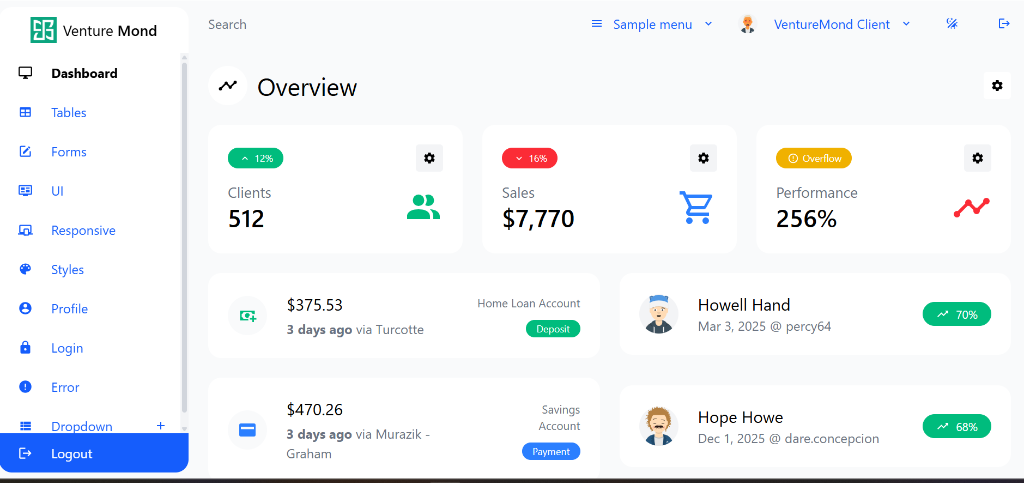
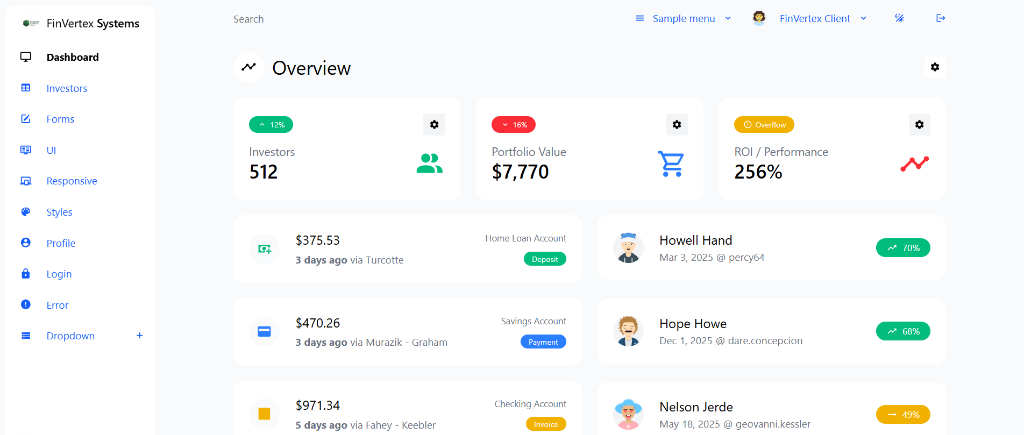
Update latest changes

diff --git a/app/dashboard/page.tsx b/app/dashboard/page.tsx
@@ -38,7 +38,7 @@ export default function DashboardPage() {
           icon={mdiAccountMultiple}
           iconColor="success"
           number={512}
-          label="Clients"
+          label="Investors"
         />
         <CardBoxWidget
           trendLabel="16%"
@@ -48,7 +48,7 @@ export default function DashboardPage() {
           iconColor="info"
           number={7770}
           numberPrefix="$"
-          label="Sales"
+          label="Portfolio Value"
         />
         <CardBoxWidget
           trendLabel="Overflow"
@@ -58,7 +58,7 @@ export default function DashboardPage() {
           iconColor="danger"
           number={256}
           numberSuffix="%"
-          label="Performance"
+          label="ROI / Performance"
         />
       </div>
 
@@ -79,7 +79,7 @@ export default function DashboardPage() {
 
       <ChartLineSampleComponentBlock />
 
-      <SectionTitleLineWithButton icon={mdiAccountMultiple} title="Clients" />
+      <SectionTitleLineWithButton icon={mdiAccountMultiple} title="Investors" />
 
       <NotificationBar color="info" icon={mdiMonitorCellphone}>
         <b>Responsive table.</b> Collapses on mobile

diff --git a/app/dashboard/_components/AsideMenu/Layer.tsx b/app/dashboard/_components/AsideMenu/Layer.tsx
@@ -37,9 +37,9 @@ export default function AsideMenuLayer({ menu, className = "", ...props }: Props
         >
           <div className="flex-1 text-center lg:pl-6 lg:text-left xl:pl-0 xl:text-center">
             <div className="flex items-center justify-center gap-2 lg:justify-start xl:justify-center">
-              <img src="/logo.png" alt="VentureMond Logo" className="h-8 w-auto" />
+              <img src="/logo.png" alt="FinVertex Systems Logo" className="h-8 w-auto" />
               <span className="text-lg">
-                Venture <span className="font-semibold">Mond</span>
+                FinVertex <span className="font-semibold">Systems</span>
               </span>
             </div>
           </div>

diff --git a/app/dashboard/_components/FooterBar.tsx b/app/dashboard/_components/FooterBar.tsx
@@ -13,9 +13,7 @@ export default function FooterBar({ children }: Props) {
     <footer className={`px-6 py-2 ${containerMaxW}`}>
       <div className="block items-center justify-between md:flex">
         <div className="mb-6 text-center md:mb-0 md:text-left">
-          <b>
-            &copy; {year} VentureMond. All rights reserved.
-          </b>
+          &copy; {year} FinVertex Systems. All rights reserved.
           {` `}
           {children}
         </div>

diff --git a/app/layout.tsx b/app/layout.tsx
@@ -3,9 +3,9 @@ import "../css/main.css";
 import StoreProvider from "./_stores/StoreProvider";
 import Script from "next/script";
 
-const title = `VentureMond Dashboard`;
+const title = `FinVertex Systems Dashboard`;
 
-const description = "VentureMond client dashboard for managing services and activity";
+const description = "FinVertex Systems financial analytics & investment intelligence platform";
 
 const url = "/";
 

diff --git a/app/_components/JustboilLogo/index.tsx b/app/_components/JustboilLogo/index.tsx
@@ -5,11 +5,11 @@ type Props = {
   className?: string;
 };
 
-export default function VentureMondLogo({ className = "" }: Props) {
+export default function FinVertexLogo({ className = "" }: Props) {
   return (
     <img
       src="/logo.png"
-      alt="VentureMond Logo"
+      alt="FinVertex Systems Logo"
       className={className}
       width={250}
       height={100}

diff --git a/next.config.ts b/next.config.ts
@@ -2,7 +2,7 @@ import type { NextConfig } from "next";
 
 const nextConfig: NextConfig = {
   output: process.env.IS_OUTPUT_EXPORT ? "export" : "standalone",
-  /* basePath removed for VentureMond white-labeling */
+  /* basePath removed for FinVertex Systems white-labeling */
   images: {
     unoptimized: true,
     remotePatterns: [

diff --git a/app/_stores/mainSlice.ts b/app/_stores/mainSlice.ts
@@ -9,8 +9,8 @@ interface MainState {
 
 const initialState: MainState = {
   /* User */
-  userName: "VentureMond Client",
-  userEmail: "client@venturemond.com",
+  userName: "FinVertex Client",
+  userEmail: "client@finvertexsystems.com",
 
   /* Field focus with ctrl+k (to register only once) */
   isFieldFocusRegistered: false,

diff --git a/app/_lib/config.ts b/app/_lib/config.ts
@@ -1,5 +1,5 @@
 export const containerMaxW = "xl:max-w-6xl xl:mx-auto";
 
-export const appTitle = "VentureMond Client Dashboard";
+export const appTitle = "FinVertex Systems Investment Dashboard";
 
 export const getPageTitle = (currentPageTitle: string) => `${currentPageTitle} — ${appTitle}`;

diff --git a/app/login/page.tsx b/app/login/page.tsx
@@ -6,7 +6,7 @@ import { Metadata } from "next";
 import LoginForm from "./_components/LoginForm";
 
 export const metadata: Metadata = {
-  title: getPageTitle("VentureMond Login"),
+  title: getPageTitle("Login"),
 };
 
 const LoginPage = () => {

diff --git a/app/dashboard/_lib/menuAside.ts b/app/dashboard/_lib/menuAside.ts
@@ -22,7 +22,7 @@ const menuAside: MenuAsideItem[] = [
   },
   {
     href: "/dashboard/tables",
-    label: "Tables",
+    label: "Investors",
     icon: mdiTable,
   },
   {
